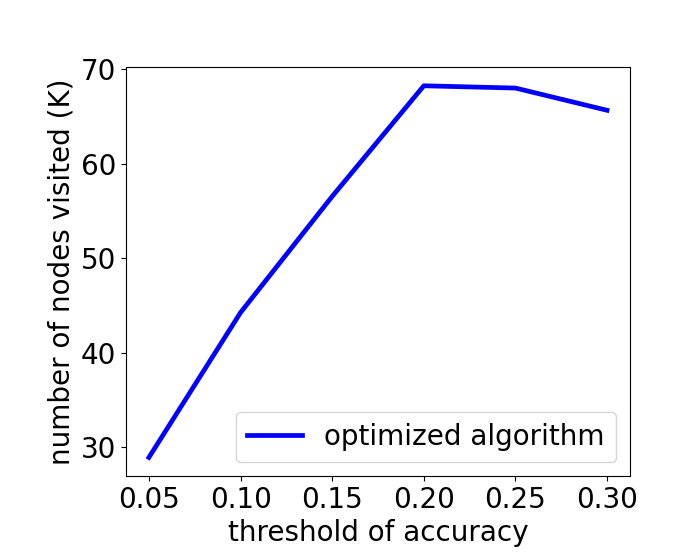
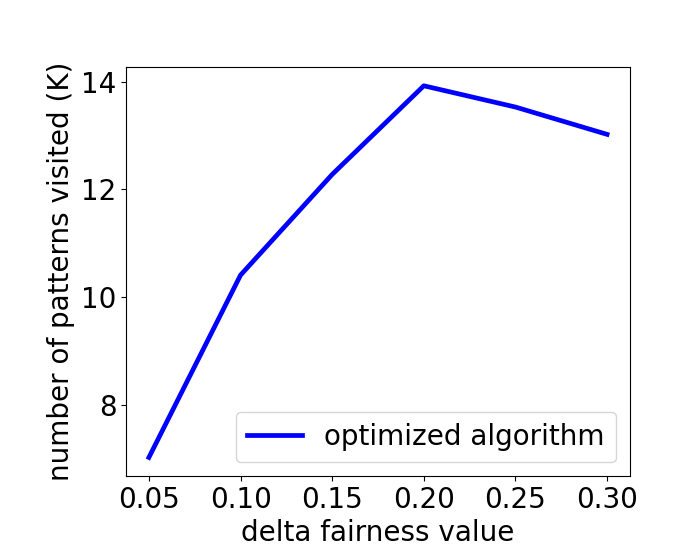
low acc, adult, tha

diff --git a/Coding/Experiments/AccuracyFairness/AdultData/Tha_2_20210629.py b/Coding/Experiments/AccuracyFairness/AdultData/Tha_2_20210629.py
@@ -49,8 +49,10 @@ predictors = ['age','workclass','education','educational-num',
               'capital-gain','capital-loss','hours-per-week', 'native-country']
 
 """
-selected_attributes = ['age', 'education', 'marital-status', 'race', 'gender', 'workclass', 'relationship',
-                       'occupation', 'capital-gain']
+# selected_attributes = ['age', 'education', 'marital-status', 'race', 'gender', 'workclass', 'relationship',
+#                        'occupation', 'capital-gain']
+
+selected_attributes = ['age', 'education', 'marital-status', 'race', 'gender', 'workclass', 'relationship']
 
 diff_acc = [0.05, 0.1, 0.15, 0.2, 0.25, 0.3]
 
@@ -136,7 +138,7 @@ for n in range(len(diff_acc)):
 plt.plot(diff_acc, execution_time, label="optimized algorithm", color='blue', linewidth = 3.4)
 
 
-plt.xlabel('threshold of accuracy')
+plt.xlabel('delta fairness value')
 plt.ylabel('execution time (s)')
 
 plt.xticks(diff_acc)
@@ -151,8 +153,8 @@ fig, ax = plt.subplots()
 plt.plot(diff_acc, num_calculations, label="optimized algorithm", color='blue', linewidth = 3.4)
 
 
-plt.xlabel('threshold of accuracy')
-plt.ylabel('number of nodes visited (K)')
+plt.xlabel('delta fairness value')
+plt.ylabel('number of patterns visited (K)')
 
 ax.yaxis.set_major_formatter(FuncFormatter(thousands_formatter))
 

diff --git a/Coding/Experiments/AccuracyFairness/AdultData/Tha_0.py b/Coding/Experiments/AccuracyFairness/AdultData/Tha_0.py
@@ -107,7 +107,7 @@ for n in range(len(diff_acc)):
 plt.plot(diff_acc, execution_time, label="new algorithm", color='blue', linewidth = 3.4)
 
 
-plt.xlabel('threshold of accuracy')
+plt.xlabel('delta fairness value')
 plt.ylabel('execution time (s)')
 plt.title('AdultDataset')
 plt.xticks(diff_acc)
@@ -120,7 +120,7 @@ plt.show()
 fig, ax = plt.subplots()
 plt.plot(diff_acc, num_calculations, label="new algorithm", color='blue', linewidth = 3.4)
 
-plt.xlabel('threshold of accuracy')
+plt.xlabel('delta fairness value')
 plt.ylabel('number of cardinality calculations (K)')
 plt.title('AdultDataset')
 ax.yaxis.set_major_formatter(FuncFormatter(thousands_formatter))

diff --git a/Coding/Experiments/AccuracyFairness/AdultData/Tha_1_20210127.py b/Coding/Experiments/AccuracyFairness/AdultData/Tha_1_20210127.py
@@ -123,7 +123,7 @@ for n in range(len(diff_acc)):
 plt.plot(diff_acc, execution_time, label="optimized algorithm", color='blue', linewidth = 3.4)
 
 
-plt.xlabel('threshold of accuracy')
+plt.xlabel('delta fairness value')
 plt.ylabel('execution time (s)')
 
 plt.xticks(diff_acc)
@@ -138,8 +138,8 @@ fig, ax = plt.subplots()
 plt.plot(diff_acc, num_calculations, label="optimized algorithm", color='blue', linewidth = 3.4)
 
 
-plt.xlabel('threshold of accuracy')
-plt.ylabel('number of nodes visited (K)')
+plt.xlabel('delta fairness value')
+plt.ylabel('number of patterns visited (K)')
 
 ax.yaxis.set_major_formatter(FuncFormatter(thousands_formatter))
 
